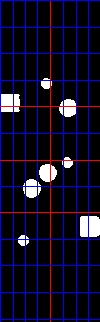
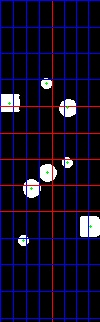
cropping revised

diff --git a/opencv/extract_score.py b/opencv/extract_score.py
@@ -3,7 +3,7 @@ from extract_stars import extractStars
 from star import Star
 from extract_constellation_size import extractConstellationSize
 
-def cropImage(origFileNameWithoutExt):
+def extractScore(origFileNameWithoutExt):
     binaryFileName = origFileNameWithoutExt + "-binary" + ".jpg"
     binaryImage = cv2.imread(binaryFileName)
     height = binaryImage.shape[0]
@@ -44,17 +44,9 @@ def cropImage(origFileNameWithoutExt):
             yMargin = math.floor(croppedHeight/12)
         else:
             yMargin = math.ceil(croppedHeight/12)
-        currentY += yMargin
-    
-    for star in stars:
-        x, y = star.center
-        adjustedX = x - leftMost
-        adjustedY = y - cropTop
-        croppedBinaryImage[adjustedY, adjustedX] = [0, 255, 0]
-        croppedBinaryImage[adjustedY, adjustedX-1] = [0, 255, 0]
-        croppedBinaryImage[adjustedY, adjustedX+1] = [0, 255, 0]
-        croppedBinaryImage[adjustedY-1, adjustedX] = [0, 255, 0]
-        croppedBinaryImage[adjustedY+1, adjustedX] = [0, 255, 0]
+        currentY += yMargin        
+        
+#         cv2.line(croppedBinaryImage, (croppedWidth-1,0), (croppedWidth-1,croppedHeight-1), (255,0,0))
     
     cv2.imwrite(origFileNameWithoutExt + "-binary-cropped.jpg", croppedBinaryImage)
     
@@ -72,6 +64,7 @@ if __name__ == "__main__":
     for fileName in origFileNamesWithoutExt:
         cropImage(fileName)
     
+
 
 
 
